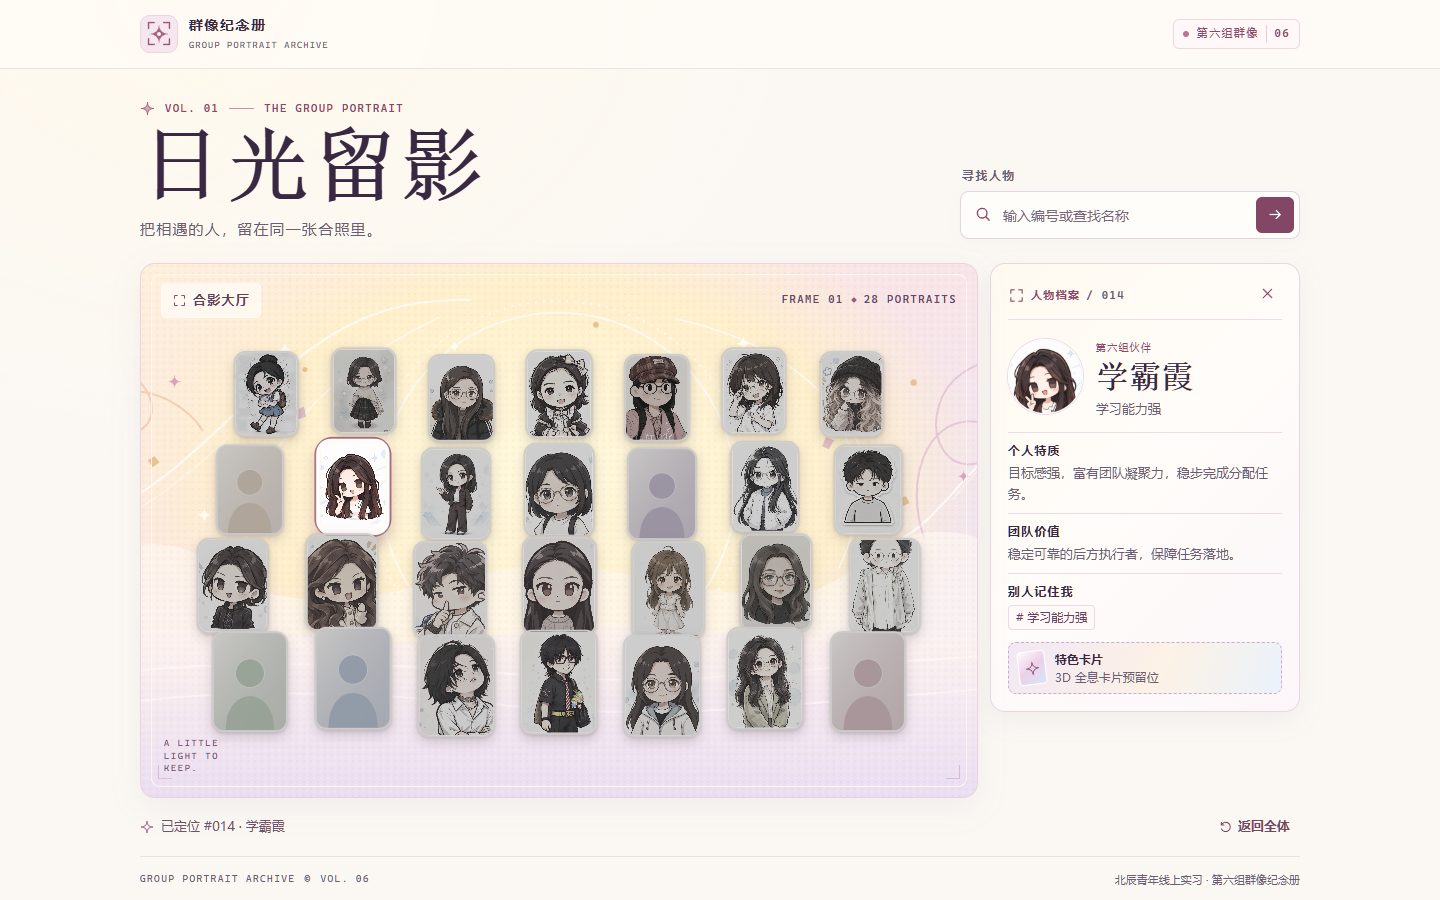
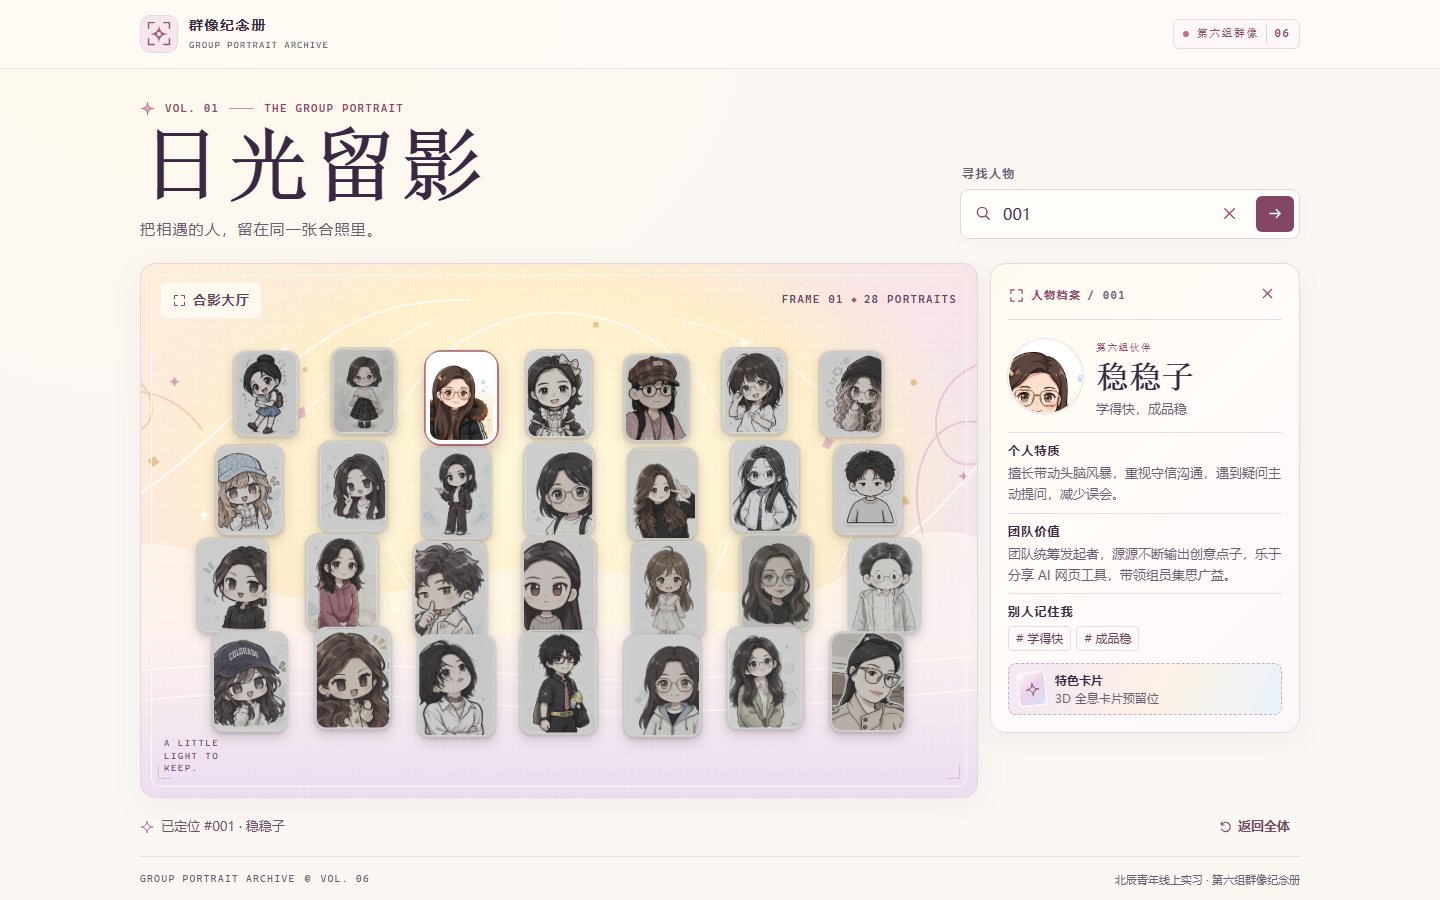
feat: 补齐全部 28 位成员画像，移除占位图
- public/assets/members: 新增 003/007/008/022/028 五张画像，全部 28 张统一为 3:4 webp（640×854，人脸优先裁切），删除 5 张占位 SVG
- data/members.ts: 上述 5 位头像路径 .svg → .webp
- README/AGENTS/docs: 同步说明

diff --git a/data/members.ts b/data/members.ts
@@ -43,7 +43,7 @@ const roster: ReadonlyArray<{
     },
   },
   {
-    nickname: '跨界侠', accent: '#9db8e8', avatar: '/assets/members/member-003.svg',
+    nickname: '跨界侠', accent: '#9db8e8', avatar: '/assets/members/member-003.webp',
     profile: {
       trait: '擅长评估创意可行性，留意细节，提倡互相鼓励，只提建议不评判。',
       value: '把控创意落地质量，集思广益，推动想法落地生根。',
@@ -75,7 +75,7 @@ const roster: ReadonlyArray<{
     },
   },
   {
-    nickname: '探索怡', accent: '#e8c49d', avatar: '/assets/members/member-007.svg',
+    nickname: '探索怡', accent: '#e8c49d', avatar: '/assets/members/member-007.webp',
     profile: {
       trait: '好奇心旺盛，愿意尝试新鲜事物，希望在项目过程提升个人能力。',
       value: '配合团队分工，依托自身特长补齐团队能力短板，依靠经验共享实现高效协作。',
@@ -83,7 +83,7 @@ const roster: ReadonlyArray<{
     },
   },
   {
-    nickname: '认真芳', accent: '#a8c8a0', avatar: '/assets/members/member-008.svg',
+    nickname: '认真芳', accent: '#a8c8a0', avatar: '/assets/members/member-008.webp',
     profile: {
       trait: '积极参与小组破冰与共创讨论，紧跟团队节奏。',
       value: '参与团队脑暴，配合小组各项活动推进。',
@@ -195,7 +195,7 @@ const roster: ReadonlyArray<{
     },
   },
   {
-    nickname: '规划洋', accent: '#c0a8d8', avatar: '/assets/members/member-022.svg',
+    nickname: '规划洋', accent: '#c0a8d8', avatar: '/assets/members/member-022.webp',
     profile: {
       trait: '执行力强，目标感明确，对 AI 有学习热情。',
       value: '善于把概念与逻辑核对清楚，也乐于倾听和沟通。',
@@ -243,7 +243,7 @@ const roster: ReadonlyArray<{
     },
   },
   {
-    nickname: '冒泡喜', accent: '#a1cfbb', avatar: '/assets/members/member-028.svg',
+    nickname: '冒泡喜', accent: '#a1cfbb', avatar: '/assets/members/member-028.webp',
     profile: {
       trait: '开朗外向，认真负责。',
       value: '随时随地冒泡同步进展，从不忘记任何任务。',

diff --git a/AGENTS.md b/AGENTS.md
@@ -5,7 +5,7 @@
 ## 复现基线
 
 - Node.js 版本见 `.node-version`，用 `npm ci` 读取锁文件。运行 `npm run dev -- --port 3218`，打开 `http://127.0.0.1:3218/`。
-- 当前版本展示第六组 28 位成员，含 23 张 WebP 画像和 5 张占位 SVG。桌面四排，窄屏五排，合影中的卡片只展示形象。编号和查找名称用于搜索与资料面板。
+- 当前版本展示第六组 28 位成员，28 张画像全部为 3:4 的 WebP（640×854，人脸优先裁切）。桌面四排，窄屏五排，合影中的卡片只展示形象。编号和查找名称用于搜索与资料面板。
 - 用 [桌面 1440 × 900](docs/screenshots/desktop.png) 和 [手机 390 × 844](docs/screenshots/mobile.png) 比对构图，先等人物图片全部加载。不同系统的字体回退可能带来轻微文字差异。
 - 项目开箱可运行。仓库只收录获准公开的展示素材。成员原图、对照表、联系方式、凭据和本地生成目录应保留在仓库外。
 

diff --git a/README.md b/README.md
@@ -40,7 +40,7 @@ Linux 若缺少 Chromium 系统依赖，可使用 `npx playwright install --with
 | --- | --- |
 | `data/members.ts` | 28 位成员的编号、化名、图片地址和资料（个人特质 / 团队价值 / 记忆点） |
 | `data/portrait-layout.ts` | 桌面与手机各排的槽位顺序、横向范围和卡片中心位置 |
-| `public/assets/members/` | 28 张成员形象：真实画像为 webp，暂缺画像的使用统一风格占位 SVG |
+| `public/assets/members/` | 28 张成员形象，统一裁为 3:4 的 webp（640×854，人脸优先裁切） |
 | `public/assets/backgrounds/` | 大厅使用的原创背景 |
 | `components/portrait-hall.tsx` | 合影、搜索和资料名片 |
 | `app/globals.css` | 桌面侧栏、移动底部面板、层级和动效 |

diff --git a/docs/项目结构与修改指南.md b/docs/项目结构与修改指南.md
@@ -26,9 +26,9 @@
 
 **示例。** 想拉开桌面第二排，可以把第二排的 `left` 从 13 调到 11，`right` 从 87 调到 89。改完查看 1440 × 900 的全景与打开右侧资料后的画面，再点两端人物和邻近人物。
 
-### 替换占位形象
+### 替换成员形象
 
-保持一人一张图。新画像获准公开后，用约 3:4 的 WebP 展示图替换占位 SVG，再更新 `data/members.ts` 中对应的 `avatar`。同时检查合影裁切、名片头像和点击位置。
+保持一人一张图。新画像获准公开后，用约 3:4 的 WebP 展示图覆盖同名文件，再更新 `data/members.ts` 中对应的 `avatar`。同时检查合影裁切、名片头像和点击位置。
 
 ### 如何复现并解释改动
 

diff --git a/docs/阶段一自测.md b/docs/阶段一自测.md
@@ -10,7 +10,7 @@
 
 ## 检查结果
 
-- 23 张 WebP 和 5 张占位 SVG 均独立加载，合影卡片无文字标签。逐个点选后，资料面板的编号和图片与选中成员对应。
+- 28 张 WebP 画像均独立加载，合影卡片无文字标签。逐个点选后，资料面板的编号和图片与选中成员对应。
 - 全角编号和查找名称可用于查找。点击结果或按 Enter 能定位目标，无结果时显示提示。
 - 资料面板打开时，可连续点击邻近卡片并更新资料。关闭资料或清空搜索可取消选中。
 - 旧链接 `#014` 打开后会转成 `?member=014`，关闭并刷新时恢复合影。查找名称也可用于直达链接。
